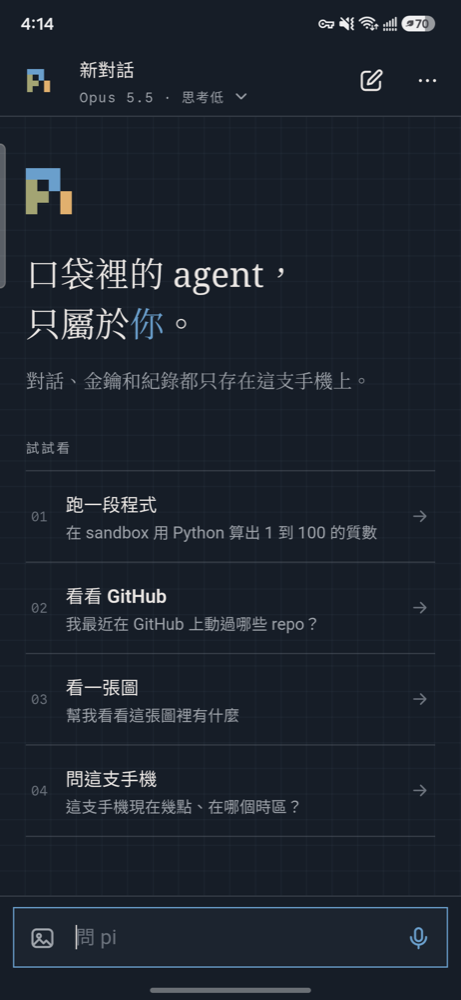
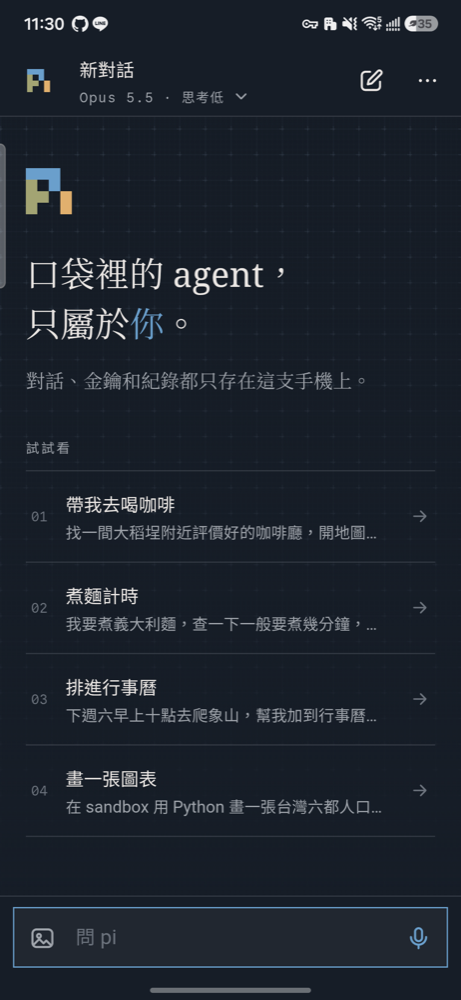
feat: add calendar events to an explicit account, and new home suggestions
An ACTION_INSERT intent saves to whatever account the calendar app defaults to, which on a phone mixing work and personal Google accounts is easy to miss. list_calendars returns the writable calendars with their accounts; add_calendar_event writes to the calendar the agent names, after an approval that leads with the account. The prompt tells the agent to ask which account when there is more than one, instead of guessing. The home suggestions now show the phone tools: walking directions to a cafe, a pasta timer, a calendar event, and a chart in the sandbox.

diff --git a/src/agent/tools/apps.ts b/src/agent/tools/apps.ts
@@ -1,14 +1,15 @@
 // Tools that hand work to other apps on the phone through Android intents. Most open a prefilled screen and the user
-// finishes there (save the event, press send, pick a share target), so they need no approval of their own.
+// finishes there (press send, pick a share target), so they need no approval of their own. Calendar events are the
+// exception: they are written to a calendar the agent names, after the user approves the account and the details.
 import { App } from "@capacitor/app";
 import { Capacitor, registerPlugin } from "@capacitor/core";
 import { Type } from "@earendil-works/pi-ai";
 import { defineExtension, defineTool, section } from "@earendil-works/pi-durable";
+import { requestConfirmation } from "../confirm.ts";
 
 interface AppsPlugin {
 	setAlarm(options: { hour: number; minute: number; label?: string; days?: number[] }): Promise<void>;
 	setTimer(options: { seconds: number; label?: string }): Promise<void>;
-	insertEvent(options: { title: string; begin: number; end?: number; allDay: boolean; location?: string; description?: string }): Promise<void>;
 	composeEmail(options: { to: string[]; subject?: string; body: string }): Promise<void>;
 	composeSms(options: { to: string; body: string }): Promise<void>;
 	open(options: { uri: string }): Promise<void>;
@@ -16,6 +17,29 @@ interface AppsPlugin {
 }
 
 const Apps = registerPlugin<AppsPlugin>("Apps");
+
+interface PhoneCalendar {
+	id: number;
+	name: string;
+	account: string;
+	accountType: string;
+	primary: boolean;
+}
+
+interface CalendarPlugin {
+	listCalendars(): Promise<{ calendars: PhoneCalendar[] }>;
+	insertEvent(options: {
+		calendarId: number;
+		title: string;
+		begin: number;
+		end: number;
+		allDay: boolean;
+		location?: string;
+		description?: string;
+	}): Promise<{ id: number }>;
+}
+
+const Calendar = registerPlugin<CalendarPlugin>("Calendar");
 
 /** Android blocks activity starts from the background; fail clearly instead of silently doing nothing. */
 async function launch(action: () => Promise<void>): Promise<void> {
@@ -29,14 +53,53 @@ const text = (value: string) => ({ output: [{ type: "text" as const, text: value
 
 const WEEKDAYS = ["sun", "mon", "tue", "wed", "thu", "fri", "sat"] as const;
 
-/** Local wall-clock time "YYYY-MM-DDTHH:MM" (or a date for all-day) to epoch milliseconds. */
-function localTime(value: string, field: string): number {
+/** Local wall-clock time "YYYY-MM-DDTHH:MM" (or a date) to its parts. */
+function parseLocal(value: string, field: string): { y: number; mo: number; d: number; h: number; mi: number; hasTime: boolean } {
 	const match = /^(\d{4})-(\d{2})-(\d{2})(?:[T ](\d{2}):(\d{2}))?$/.exec(value.trim());
 	if (!match) throw new Error(`${field} must be local time as YYYY-MM-DDTHH:MM (or YYYY-MM-DD), got ${JSON.stringify(value)}`);
-	const [, y, mo, d, h = "0", mi = "0"] = match;
-	const date = new Date(Number(y), Number(mo) - 1, Number(d), Number(h), Number(mi));
-	if (Number.isNaN(date.getTime())) throw new Error(`${field} is not a real date: ${value}`);
-	return date.getTime();
+	const [, y, mo, d, h, mi] = match;
+	return { y: Number(y), mo: Number(mo), d: Number(d), h: Number(h ?? 0), mi: Number(mi ?? 0), hasTime: h !== undefined };
+}
+
+const HOUR = 3_600_000;
+const DAY = 24 * HOUR;
+
+/** Event times for the calendar provider: local instants, or UTC midnights for all-day events (end exclusive). */
+function eventTimes(start: string, end: string | undefined, allDay: boolean): { begin: number; end: number } {
+	const from = parseLocal(start, "start");
+	const to = end ? parseLocal(end, "end") : undefined;
+	if (allDay) {
+		const begin = Date.UTC(from.y, from.mo - 1, from.d);
+		const last = to ? Date.UTC(to.y, to.mo - 1, to.d) : begin;
+		if (last < begin) throw new Error("end is before start");
+		return { begin, end: last + DAY };
+	}
+	if (!from.hasTime) throw new Error("start needs a time (YYYY-MM-DDTHH:MM) unless all_day is true");
+	const begin = new Date(from.y, from.mo - 1, from.d, from.h, from.mi).getTime();
+	const finish = to ? new Date(to.y, to.mo - 1, to.d, to.h, to.mi).getTime() : begin + HOUR;
+	if (Number.isNaN(begin) || Number.isNaN(finish)) throw new Error("not a real date");
+	if (finish < begin) throw new Error("end is before start");
+	return { begin, end: finish };
+}
+
+function describeTimes(times: { begin: number; end: number }, allDay: boolean): string {
+	const date = (ms: number, timeZone?: string) =>
+		new Date(ms).toLocaleDateString("zh-TW", { timeZone, month: "numeric", day: "numeric", weekday: "short" });
+	const time = (ms: number) => new Date(ms).toLocaleTimeString("zh-TW", { hour: "2-digit", minute: "2-digit", hour12: false });
+	if (allDay) {
+		const first = date(times.begin, "UTC");
+		const last = date(times.end - DAY, "UTC");
+		return first === last ? `${first} 整天` : `${first} – ${last} 整天`;
+	}
+	const sameDay = new Date(times.begin).toDateString() === new Date(times.end).toDateString();
+	return sameDay
+		? `${date(times.begin)} ${time(times.begin)}–${time(times.end)}`
+		: `${date(times.begin)} ${time(times.begin)} – ${date(times.end)} ${time(times.end)}`;
+}
+
+/** How the account reads in the approval: an email for Google, otherwise the provider's own name. */
+function accountLabel(calendar: PhoneCalendar): string {
+	return calendar.accountType === "com.google" ? calendar.account : `${calendar.account}（${calendar.accountType}）`;
 }
 
 const setAlarm = defineTool({
@@ -72,26 +135,52 @@ const setTimer = defineTool({
 	},
 });
 
+const listCalendars = defineTool({
+	name: "list_calendars",
+	description:
+		"List the calendars on this phone that events can be added to, with the account each belongs to (often both a work and a personal Google account). Call before add_calendar_event.",
+	parameters: Type.Object({}),
+	execute: async () => {
+		if (!Capacitor.isNativePlatform()) throw new Error("only available in the Android app");
+		const { calendars } = await Calendar.listCalendars();
+		if (calendars.length === 0) return text("No writable calendars on this phone.");
+		return text(JSON.stringify(calendars.map(({ id, name, account, accountType, primary }) => ({ id, name, account, accountType, primary })), null, 2));
+	},
+});
+
 const addEvent = defineTool({
 	name: "add_calendar_event",
 	description:
-		"Open the phone's calendar app on a new event with these fields filled in. The user reviews it and taps Save; nothing is created until then.",
+		"Add an event to one calendar from list_calendars. The user approves the account, calendar and details first; nothing is written if they decline.",
 	parameters: Type.Object({
+		calendar_id: Type.Integer({ description: "id from list_calendars" }),
 		title: Type.String(),
 		start: Type.String({ description: "Local time YYYY-MM-DDTHH:MM, or YYYY-MM-DD with all_day" }),
-		end: Type.Optional(Type.String({ description: "Local time YYYY-MM-DDTHH:MM; default one hour after start" })),
+		end: Type.Optional(Type.String({ description: "Local time YYYY-MM-DDTHH:MM (or the last day, with all_day); default one hour after start" })),
 		all_day: Type.Optional(Type.Boolean()),
 		location: Type.Optional(Type.String()),
 		notes: Type.Optional(Type.String()),
 	}),
 	execute: async (args) => {
-		const begin = localTime(args.start, "start");
-		const end = args.end ? localTime(args.end, "end") : undefined;
-		if (end !== undefined && end < begin) throw new Error("end is before start");
-		await launch(() =>
-			Apps.insertEvent({ title: args.title, begin, end, allDay: args.all_day ?? false, location: args.location, description: args.notes }),
-		);
-		return text("Opened the calendar with the event filled in. It is created only when the user taps Save.");
+		if (!Capacitor.isNativePlatform()) throw new Error("only available in the Android app");
+		const allDay = args.all_day ?? false;
+		const times = eventTimes(args.start, args.end, allDay);
+		const calendar = (await Calendar.listCalendars()).calendars.find((candidate) => candidate.id === args.calendar_id);
+		if (!calendar) throw new Error(`no writable calendar with id ${args.calendar_id}; call list_calendars`);
+		const approved = await requestConfirmation({
+			title: `加到 ${accountLabel(calendar)} 的「${calendar.name}」行事曆`,
+			detail: [args.title, describeTimes(times, allDay), args.location, args.notes].filter(Boolean).join("\n"),
+		});
+		if (!approved) throw new Error("The user declined adding this event.");
+		const { id } = await Calendar.insertEvent({
+			calendarId: calendar.id,
+			title: args.title,
+			...times,
+			allDay,
+			location: args.location,
+			description: args.notes,
+		});
+		return text(`Added event ${id} to "${calendar.name}" (${calendar.account}): ${describeTimes(times, allDay)}.`);
 	},
 });
 
@@ -205,12 +294,13 @@ const share = defineTool({
 
 export const AppsExtension = defineExtension({
 	name: "phone_apps",
-	tools: [setAlarm, setTimer, addEvent, composeEmail, composeSms, openMaps, openLink, share],
+	tools: [setAlarm, setTimer, listCalendars, addEvent, composeEmail, composeSms, openMaps, openLink, share],
 	sections: [
 		section("phone_apps", () =>
 			[
 				"You can hand things to other apps on this phone: alarms and timers, calendar events, email and text drafts, map directions, links and app deep links, and the share sheet (also for sandbox files).",
-				"Except alarms and timers, these open a prefilled screen; the user finishes there. Say what they need to tap, and never claim an event was saved or a message was sent.",
+				"Drafts, maps, links and sharing open a prefilled screen; the user finishes there. Say what they need to tap, and never claim a message was sent.",
+				"Calendar: call list_calendars first. Phones often mix work and personal accounts, and an event in the wrong one is embarrassing. If the writable calendars span more than one account and the user has not said which, ask them, naming the accounts; do not guess from the event's content. Use the account they chose earlier in this conversation without asking again.",
 			].join("\n"),
 		),
 	],

diff --git a/src/app/Chat.tsx b/src/app/Chat.tsx
@@ -10,7 +10,6 @@ import type { Prefs } from "./prefs.ts";
 import { Sheet } from "./Sheet.tsx";
 
 export interface Capabilities {
-	github: boolean;
 	sandbox: boolean;
 }
 
@@ -29,11 +28,13 @@ interface Suggestion {
 
 function suggestions(capabilities: Capabilities): Suggestion[] {
 	return [
-		...(capabilities.sandbox ? [{ title: "跑一段程式", prompt: "在 sandbox 用 Python 算出 1 到 100 的質數" }] : []),
-		...(capabilities.github ? [{ title: "看看 GitHub", prompt: "我最近在 GitHub 上動過哪些 repo？" }] : []),
-		{ title: "看一張圖", prompt: "幫我看看這張圖裡有什麼", image: true },
-		{ title: "問這支手機", prompt: "這支手機現在幾點、在哪個時區？" },
-	].slice(0, 4);
+		{ title: "帶我去喝咖啡", prompt: "找一間大稻埕附近評價好的咖啡廳，開地圖帶我走過去" },
+		{ title: "煮麵計時", prompt: "我要煮義大利麵，查一下一般要煮幾分鐘，然後幫我設計時器" },
+		{ title: "排進行事曆", prompt: "下週六早上十點去爬象山，幫我加到行事曆，備註提醒我帶水" },
+		...(capabilities.sandbox
+			? [{ title: "畫一張圖表", prompt: "在 sandbox 用 Python 畫一張台灣六都人口的長條圖給我看" }]
+			: [{ title: "看一張圖", prompt: "幫我看看這張圖裡有什麼", image: true }]),
+	];
 }
 
 /** Whether the agent is working in this view. */

diff --git a/src/app/App.tsx b/src/app/App.tsx
@@ -292,7 +292,7 @@ export function App() {
 					key={String(controller.id)}
 					controller={controller}
 					prefs={prefs}
-					capabilities={{ github: Boolean(settings.githubToken), sandbox: runtime.hasSandbox }}
+					capabilities={{ sandbox: runtime.hasSandbox }}
 					initialDraft={pendingDraft}
 					focusKey={focusKey}
 					onView={setView}

diff --git a/android/app/src/main/java/dev/geminixiang/pimobile/CalendarPlugin.java b/android/app/src/main/java/dev/geminixiang/pimobile/CalendarPlugin.java
@@ -1,0 +1,119 @@
+package dev.geminixiang.pimobile;
+
+import android.Manifest;
+import android.content.ContentResolver;
+import android.content.ContentValues;
+import android.database.Cursor;
+import android.net.Uri;
+import android.provider.CalendarContract;
+import com.getcapacitor.JSArray;
+import com.getcapacitor.JSObject;
+import com.getcapacitor.PermissionState;
+import com.getcapacitor.Plugin;
+import com.getcapacitor.PluginCall;
+import com.getcapacitor.PluginMethod;
+import com.getcapacitor.annotation.CapacitorPlugin;
+import com.getcapacitor.annotation.Permission;
+import com.getcapacitor.annotation.PermissionCallback;
+import java.util.TimeZone;
+
+/**
+ * The phone's calendars through CalendarContract. Events are written straight into the calendar the tool names, so the
+ * account is explicit; an ACTION_INSERT intent would land in whatever the calendar app defaults to, which on a phone
+ * with work and personal accounts is easy to miss. The tool asks the user before writing.
+ */
+@CapacitorPlugin(
+    name = "Calendar",
+    permissions = { @Permission(strings = { Manifest.permission.READ_CALENDAR, Manifest.permission.WRITE_CALENDAR }, alias = "calendar") }
+)
+public class CalendarPlugin extends Plugin {
+
+    private boolean ensurePermission(PluginCall call, String callback) {
+        if (getPermissionState("calendar") == PermissionState.GRANTED) return true;
+        requestPermissionForAlias("calendar", call, callback);
+        return false;
+    }
+
+    @PluginMethod
+    public void listCalendars(PluginCall call) {
+        if (ensurePermission(call, "listResult")) list(call);
+    }
+
+    @PermissionCallback
+    private void listResult(PluginCall call) {
+        if (getPermissionState("calendar") == PermissionState.GRANTED) list(call);
+        else call.reject("calendar permission denied", "permission");
+    }
+
+    /** Visible calendars the user can add events to. */
+    private void list(PluginCall call) {
+        String[] projection = {
+            CalendarContract.Calendars._ID,
+            CalendarContract.Calendars.CALENDAR_DISPLAY_NAME,
+            CalendarContract.Calendars.ACCOUNT_NAME,
+            CalendarContract.Calendars.ACCOUNT_TYPE,
+            CalendarContract.Calendars.IS_PRIMARY,
+        };
+        String selection =
+            CalendarContract.Calendars.VISIBLE + " = 1 AND " +
+            CalendarContract.Calendars.CALENDAR_ACCESS_LEVEL + " >= " + CalendarContract.Calendars.CAL_ACCESS_CONTRIBUTOR;
+        JSArray calendars = new JSArray();
+        ContentResolver resolver = getContext().getContentResolver();
+        try (Cursor cursor = resolver.query(CalendarContract.Calendars.CONTENT_URI, projection, selection, null, null)) {
+            while (cursor != null && cursor.moveToNext()) {
+                JSObject calendar = new JSObject();
+                calendar.put("id", cursor.getLong(0));
+                calendar.put("name", cursor.getString(1));
+                calendar.put("account", cursor.getString(2));
+                calendar.put("accountType", cursor.getString(3));
+                calendar.put("primary", !cursor.isNull(4) && cursor.getInt(4) == 1);
+                calendars.put(calendar);
+            }
+        }
+        JSObject result = new JSObject();
+        result.put("calendars", calendars);
+        call.resolve(result);
+    }
+
+    @PluginMethod
+    public void insertEvent(PluginCall call) {
+        if (ensurePermission(call, "insertResult")) insert(call);
+    }
+
+    @PermissionCallback
+    private void insertResult(PluginCall call) {
+        if (getPermissionState("calendar") == PermissionState.GRANTED) insert(call);
+        else call.reject("calendar permission denied", "permission");
+    }
+
+    private void insert(PluginCall call) {
+        Long calendarId = call.getLong("calendarId");
+        Long begin = call.getLong("begin");
+        Long end = call.getLong("end");
+        if (calendarId == null || begin == null || end == null) {
+            call.reject("calendarId, begin and end are required");
+            return;
+        }
+        boolean allDay = Boolean.TRUE.equals(call.getBoolean("allDay", false));
+        ContentValues values = new ContentValues();
+        values.put(CalendarContract.Events.CALENDAR_ID, calendarId);
+        values.put(CalendarContract.Events.TITLE, call.getString("title", ""));
+        values.put(CalendarContract.Events.DTSTART, begin);
+        values.put(CalendarContract.Events.DTEND, end);
+        values.put(CalendarContract.Events.ALL_DAY, allDay ? 1 : 0);
+        // All-day events are stored at UTC midnight; TypeScript sends them that way.
+        values.put(CalendarContract.Events.EVENT_TIMEZONE, allDay ? "UTC" : TimeZone.getDefault().getID());
+        String location = call.getString("location");
+        if (location != null) values.put(CalendarContract.Events.EVENT_LOCATION, location);
+        String description = call.getString("description");
+        if (description != null) values.put(CalendarContract.Events.DESCRIPTION, description);
+        Uri uri = getContext().getContentResolver().insert(CalendarContract.Events.CONTENT_URI, values);
+        if (uri == null) {
+            call.reject("the calendar provider did not create the event");
+            return;
+        }
+        JSObject result = new JSObject();
+        result.put("id", Long.parseLong(uri.getLastPathSegment()));
+        call.resolve(result);
+    }
+}

diff --git a/android/app/src/main/java/dev/geminixiang/pimobile/AppsPlugin.java b/android/app/src/main/java/dev/geminixiang/pimobile/AppsPlugin.java
@@ -4,7 +4,6 @@ import android.content.ActivityNotFoundException;
 import android.content.Intent;
 import android.net.Uri;
 import android.provider.AlarmClock;
-import android.provider.CalendarContract;
 import android.util.Base64;
 import androidx.core.content.FileProvider;
 import com.getcapacitor.JSArray;
@@ -66,22 +65,6 @@ public class AppsPlugin extends Plugin {
             .putExtra(AlarmClock.EXTRA_SKIP_UI, true);
         String label = call.getString("label");
         if (label != null) intent.putExtra(AlarmClock.EXTRA_MESSAGE, label);
-        launch(call, intent);
-    }
-
-    @PluginMethod
-    public void insertEvent(PluginCall call) {
-        Intent intent = new Intent(Intent.ACTION_INSERT)
-            .setData(CalendarContract.Events.CONTENT_URI)
-            .putExtra(CalendarContract.Events.TITLE, call.getString("title", ""))
-            .putExtra(CalendarContract.EXTRA_EVENT_BEGIN_TIME, call.getLong("begin", 0L))
-            .putExtra(CalendarContract.EXTRA_EVENT_ALL_DAY, Boolean.TRUE.equals(call.getBoolean("allDay", false)));
-        Long end = call.getLong("end");
-        if (end != null) intent.putExtra(CalendarContract.EXTRA_EVENT_END_TIME, end);
-        String location = call.getString("location");
-        if (location != null) intent.putExtra(CalendarContract.Events.EVENT_LOCATION, location);
-        String description = call.getString("description");
-        if (description != null) intent.putExtra(CalendarContract.Events.DESCRIPTION, description);
         launch(call, intent);
     }
 

diff --git a/android/app/src/main/java/dev/geminixiang/pimobile/MainActivity.java b/android/app/src/main/java/dev/geminixiang/pimobile/MainActivity.java
@@ -11,6 +11,7 @@ public class MainActivity extends BridgeActivity {
         registerPlugin(VoicePlugin.class);
         registerPlugin(SystemPlugin.class);
         registerPlugin(AppsPlugin.class);
+        registerPlugin(CalendarPlugin.class);
         super.onCreate(savedInstanceState);
     }
 }
